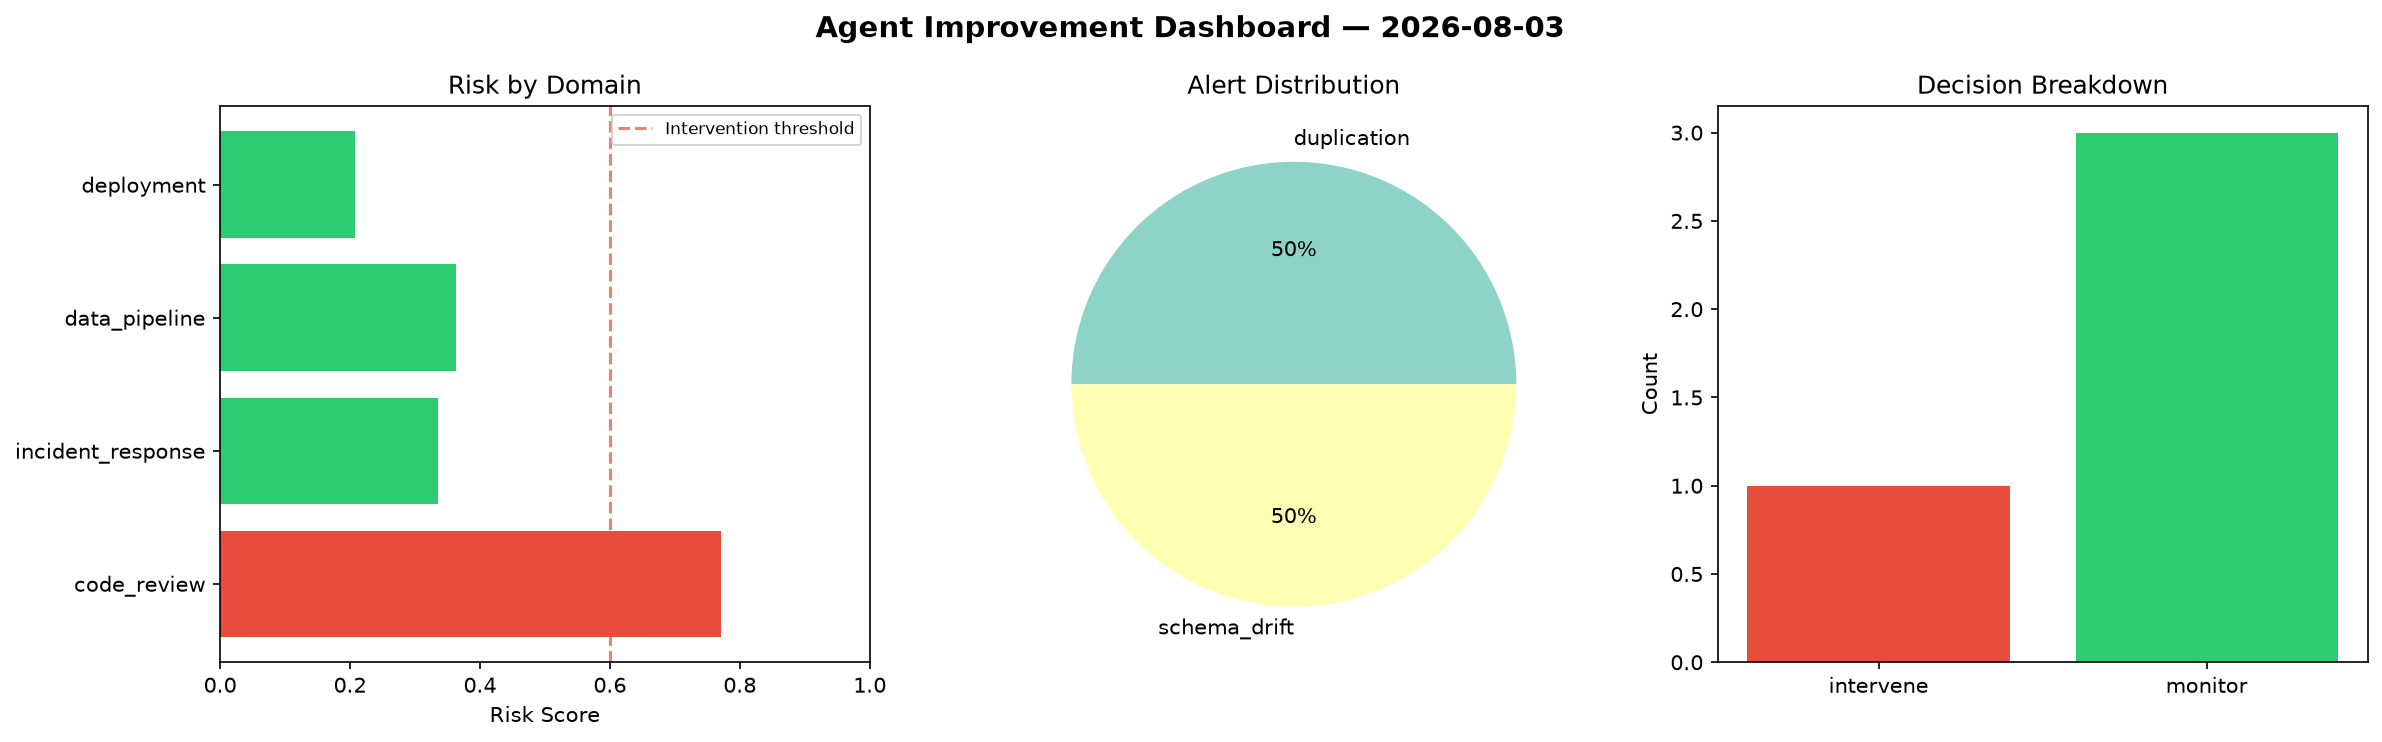
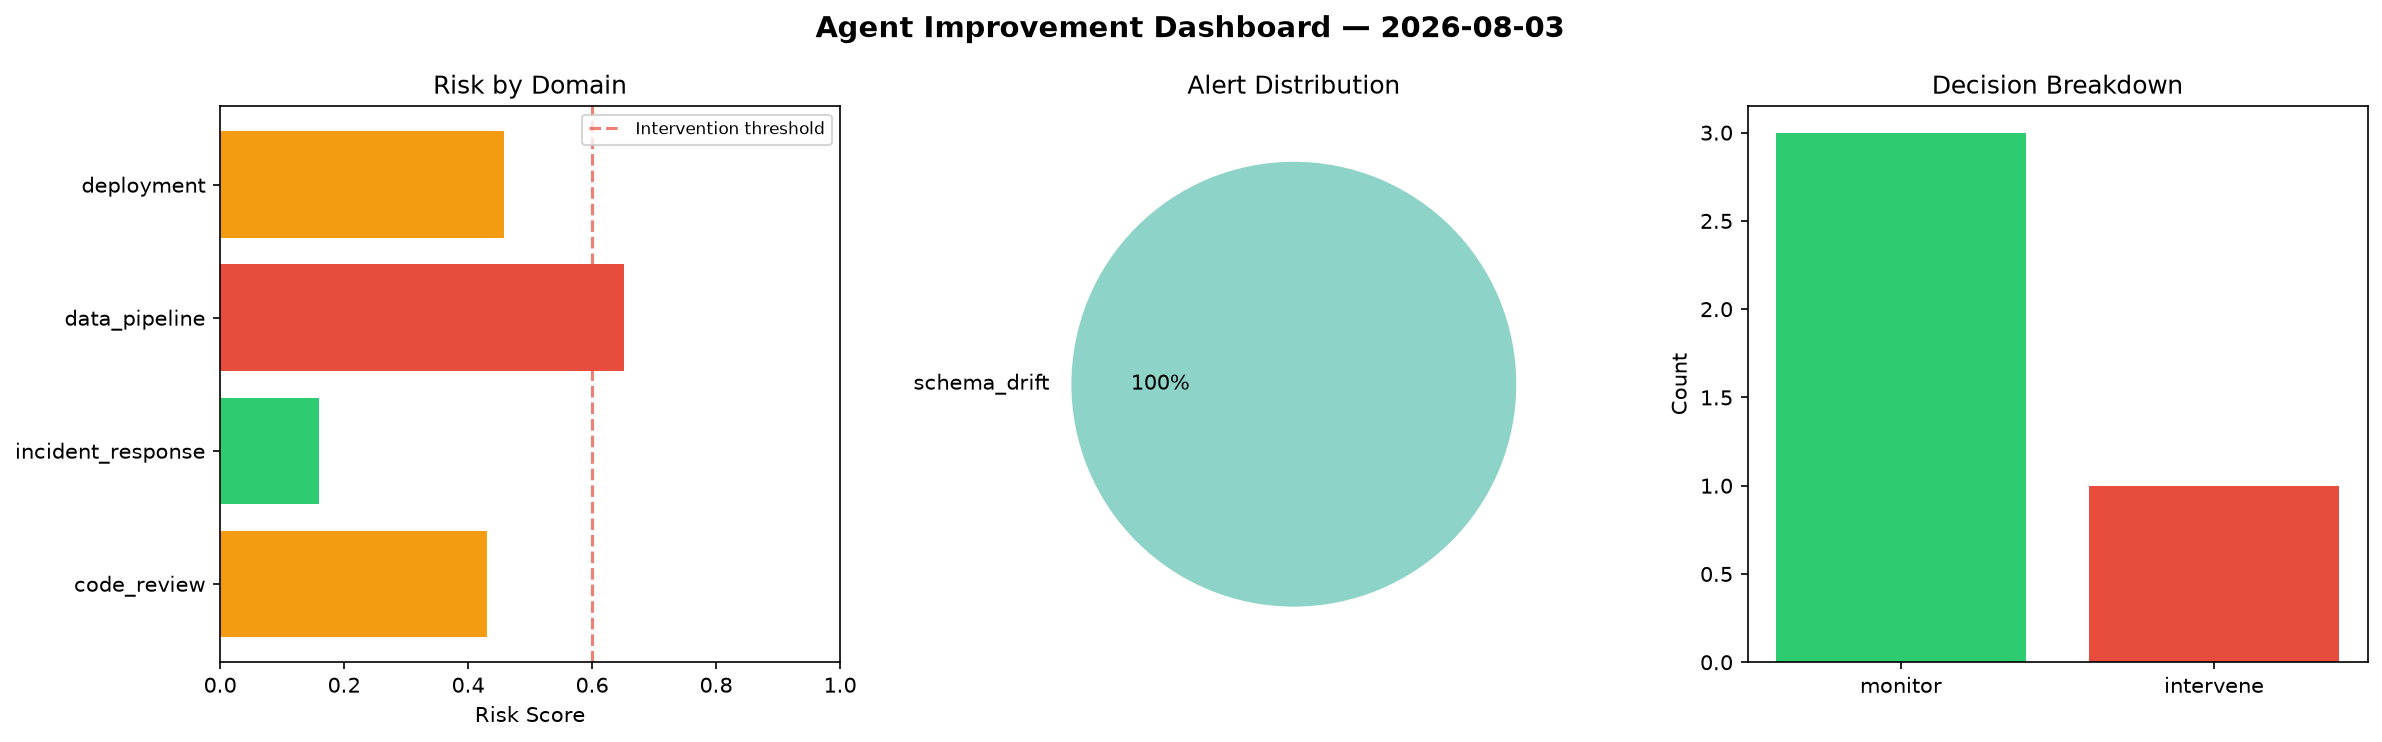
agent-improvement: daily cycle 2026-08-03T21:20

diff --git a/logs/2026-08-03.md b/logs/2026-08-03.md
@@ -1,6 +1,6 @@
 # Agent Improvement Report — 2026-08-03
 
-**Cycle ID:** `645b5cbf` | **Avg Risk:** 0.4197 | **Interventions:** 1/4
+**Cycle ID:** `87b25a81` | **Avg Risk:** 0.4249 | **Interventions:** 1/4
 
 ![Dashboard](2026-08-03_dashboard.png)
 
@@ -10,18 +10,18 @@
 
 | Domain | Risk Score | Decision | Alerts |
 |--------|-----------|----------|--------|
-| code_review | 0.7717 | intervene | duplication |
-| incident_response | 0.3361 | monitor | none |
-| data_pipeline | 0.3634 | monitor | schema_drift |
-| deployment | 0.2077 | monitor | none |
+| code_review | 0.4307 | monitor | none |
+| incident_response | 0.1597 | monitor | none |
+| data_pipeline | 0.6513 | intervene | schema_drift |
+| deployment | 0.4579 | monitor | none |
 
 ## Delta vs Yesterday
 
 | Domain | Today | Yesterday | Change |
 |--------|-------|-----------|--------|
-| code_review | 0.7717 | 0.6537 | 📈 18.1% |
-| incident_response | 0.3361 | 0.5554 | 📉 -39.5% |
-| data_pipeline | 0.3634 | 0.6958 | 📉 -47.8% |
-| deployment | 0.2077 | 0.1091 | 📈 90.4% |
+| code_review | 0.4307 | 0.6537 | 📉 -34.1% |
+| incident_response | 0.1597 | 0.5554 | 📉 -71.2% |
+| data_pipeline | 0.6513 | 0.6958 | 📉 -6.4% |
+| deployment | 0.4579 | 0.1091 | 📈 319.7% |
 
-**Refinement:** `{'adjustment': 'maintain', 'trend': 'improving', 'window': 4}`
+**Refinement:** `{'adjustment': 'tighten_thresholds', 'trend': 'degrading', 'window': 4}`
